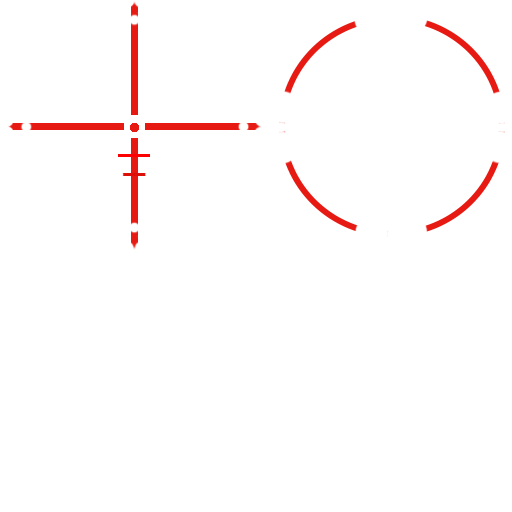
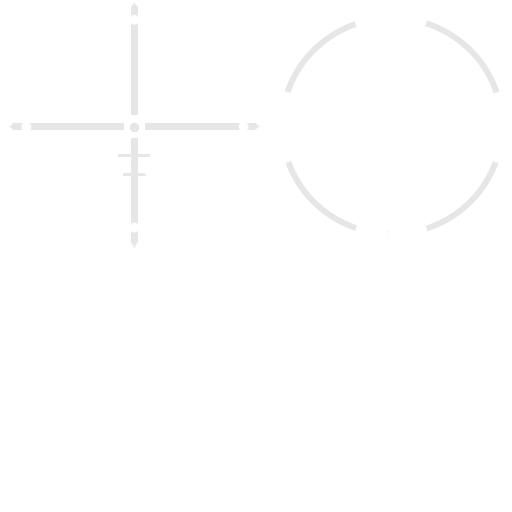
加入命中反馈lua

diff --git a/CSharp/Client/DeepHitMarker.cs b/CSharp/Client/DeepHitMarker.cs
@@ -1,0 +1,174 @@
+using Barotrauma;
+using Barotrauma.Items.Components;
+using FarseerPhysics.Dynamics;
+using HarmonyLib;
+using Microsoft.Xna.Framework;
+using Microsoft.Xna.Framework.Graphics;
+using System;
+using System.Collections.Generic;
+using System.Reflection.Emit;
+using Color = Microsoft.Xna.Framework.Color;
+
+namespace DeepHitMarker
+{
+    public class DeepHitMarker : IAssemblyPlugin
+    {
+        public readonly string Name = "Deep Hit Marker";
+        public static float HitHintTimer { get; set; }
+        public static int HitHintSize { get; set; } = 10;
+        public static Color HitHintColor { get; set; }
+        public static int CrosshairDistance { get; set; } = 12; // 从10改为20，让线条离中心更远
+        public static bool IsHeadshot { get; set; }
+
+        public Harmony? harmonyInstance;
+
+        public void Initialize()
+        {
+            LuaCsLogger.Log($"Deep Hit Marker loading...");
+            harmonyInstance = new Harmony("Deep.Hit.Marker.Esirprus");
+        }
+        public void Dispose()
+        {
+            harmonyInstance?.UnpatchSelf();
+            LuaCsLogger.Log("Deep Hit Marker disposed!");
+        }
+
+        public void OnLoadCompleted()
+        {
+            if (true)
+            {
+                harmonyInstance.PatchAll();
+                GameMain.LuaCs.Hook.Add("think", "UpdateDeepHitMarker", UpdateDeepHitMarker);
+                LuaCsLogger.Log($"Deep Hit Marker loaded!");
+            }
+            else
+            {
+                harmonyInstance = null;
+                LuaCsLogger.Log($"Deep Hit Marker has been disabled because other mod contains its function.");
+            }
+        }
+
+        public void PreInitPatching()
+        {
+        }
+
+        //patch ApplyAttack
+        [HarmonyPatch(typeof(Character), nameof(Character.ApplyAttack))]
+        public static class ApplyAttackPatch
+        {
+            public static void Postfix(Character __instance, Character attacker, AttackResult __result)
+            {
+                if (__instance == null || attacker == null || IsDefaultAttackResult(__result)) { return; }
+                if (attacker == Character.Controlled)
+                {
+#if DEBUG
+                    string limbName = __result.HitLimb != null ? __result.HitLimb.Name : "null";
+                    LuaCsLogger.Log($"{attacker.Name} attacked {__instance.Name}, limb: {limbName}");
+#endif
+                    if (IsOutOfScreen(__instance.WorldPosition)) { return; }
+                    HitHintTimer = 0.25f;
+                    // 使用不区分大小写的比较，并检查多种可能的头部名称
+                    IsHeadshot = __result.HitLimb != null && 
+                                 (__result.HitLimb.Name.ToLower() == "head" || 
+                                  __result.HitLimb.Name.ToLower().Contains("head"));
+                }
+            }
+            private static bool IsOutOfScreen(Vector2 position)
+            {
+                if (Screen.Selected?.Cam == null) { return true; }
+                bool result = position.X < Screen.Selected.Cam.WorldView.X
+                              || position.X > Screen.Selected.Cam.WorldView.Right
+                              || position.Y > Screen.Selected.Cam.WorldView.Y
+                              || position.Y < Screen.Selected.Cam.WorldView.Y - Screen.Selected.Cam.WorldView.Height;
+                return result;
+            }
+            private static bool IsDefaultAttackResult(AttackResult result)
+            {
+                return result.Damage == 0 && result.Afflictions == null && result.HitLimb == null && result.AppliedDamageModifiers == null;
+            }
+        }
+        //dont use this it will cause game crash on subeditor
+        ////patch UpdateHUDComponentSpecific
+        //[HarmonyPatch(typeof(RangedWeapon), nameof(RangedWeapon.UpdateHUDComponentSpecific))]
+        //public static class UpdateHUDComponentSpecificPatch
+        //{
+        //    public static void Postfix(float deltaTime)
+        //    {
+        //        HitHintTimer -= deltaTime;
+        //        HitHintTimer = Math.Max(HitHintTimer, 0);
+        //    }
+        //}
+
+        public static object[]? UpdateDeepHitMarker(object[]? args)
+        {
+            HitHintTimer -= (float)Timing.Step;
+            HitHintTimer = Math.Max(HitHintTimer, 0);
+            return null;
+        }
+
+        //patch DrawHUD
+        [HarmonyPatch(typeof(RangedWeapon), nameof(RangedWeapon.DrawHUD))]
+        static class RangedWeapon_DrawHUD_Patch
+        {
+            // 替换 RangedWeapon_DrawHUD_Patch 类中的 Transpiler 方法
+static IEnumerable<CodeInstruction> Transpiler(IEnumerable<CodeInstruction> instructions)
+{
+    var codes = new List<CodeInstruction>(instructions);
+    
+    // 尝试找到任何 Ldfld 指令，作为备选插入点
+    for (int i = 0; i < codes.Count; i++)
+    {
+        // 找到第一个 Ldfld 指令作为插入点
+        if (codes[i].opcode == OpCodes.Ldfld)
+        {
+            var injectCode = new List<CodeInstruction>
+            {
+                new CodeInstruction(OpCodes.Ldarg_0),      // this (RangedWeapon)
+                new CodeInstruction(OpCodes.Ldarg_1),      // spriteBatch
+                new CodeInstruction(OpCodes.Call, typeof(DeepHitMarker).GetMethod("DrawHint"))
+            };
+
+            codes.InsertRange(i + 1, injectCode);
+            return codes;
+        }
+    }
+    
+    // 如果找不到任何插入点，就直接在方法末尾添加
+    var endInjectCode = new List<CodeInstruction>
+    {
+        new CodeInstruction(OpCodes.Ldarg_0),      // this (RangedWeapon)
+        new CodeInstruction(OpCodes.Ldarg_1),      // spriteBatch
+        new CodeInstruction(OpCodes.Call, typeof(DeepHitMarker).GetMethod("DrawHint"))
+    };
+    
+    codes.AddRange(endInjectCode);
+    return codes;
+}
+
+        }
+        public static void DrawHint(RangedWeapon rangedWeapon, SpriteBatch spriteBatch)
+        {
+            var position = rangedWeapon.crosshairPos;
+            Color color = IsHeadshot ? Color.Red : Color.White;
+            HitHintColor = new Color(color.R, color.G, color.B, HitHintTimer > 0 ? 255 : 0);
+            float lineThickness = 4f; // 线条粗细
+            ShapeExtensions.DrawLine(spriteBatch,
+                                     new Vector2(position.X + CrosshairDistance, position.Y + CrosshairDistance),
+                                     new Vector2(position.X + CrosshairDistance + HitHintSize, position.Y + CrosshairDistance + HitHintSize),
+                                     HitHintColor, lineThickness);
+            ShapeExtensions.DrawLine(spriteBatch,
+                                     new Vector2(position.X - CrosshairDistance, position.Y + CrosshairDistance),
+                                     new Vector2(position.X - CrosshairDistance - HitHintSize, position.Y + CrosshairDistance + HitHintSize),
+                                     HitHintColor, lineThickness);
+            ShapeExtensions.DrawLine(spriteBatch,
+                                     new Vector2(position.X + CrosshairDistance, position.Y - CrosshairDistance),
+                                     new Vector2(position.X + CrosshairDistance + HitHintSize, position.Y - CrosshairDistance - HitHintSize),
+                                     HitHintColor, lineThickness);
+            ShapeExtensions.DrawLine(spriteBatch,
+                                     new Vector2(position.X - CrosshairDistance, position.Y - CrosshairDistance),
+                                     new Vector2(position.X - CrosshairDistance - HitHintSize, position.Y - CrosshairDistance - HitHintSize),
+                                     HitHintColor, lineThickness);
+        }
+    }
+
+}
